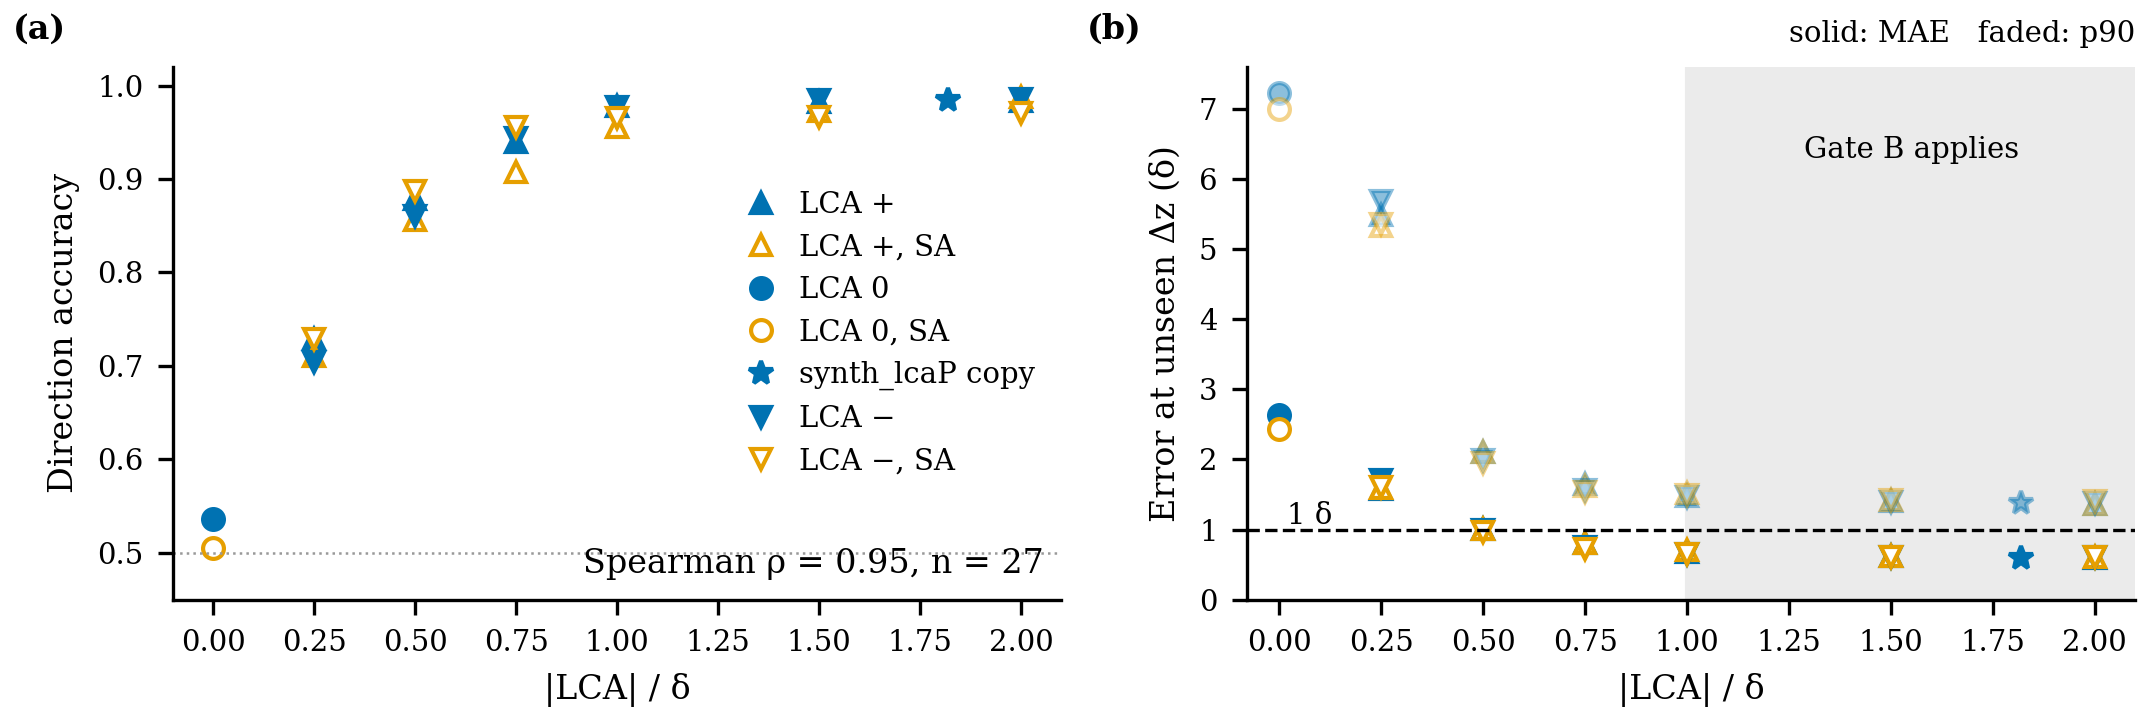
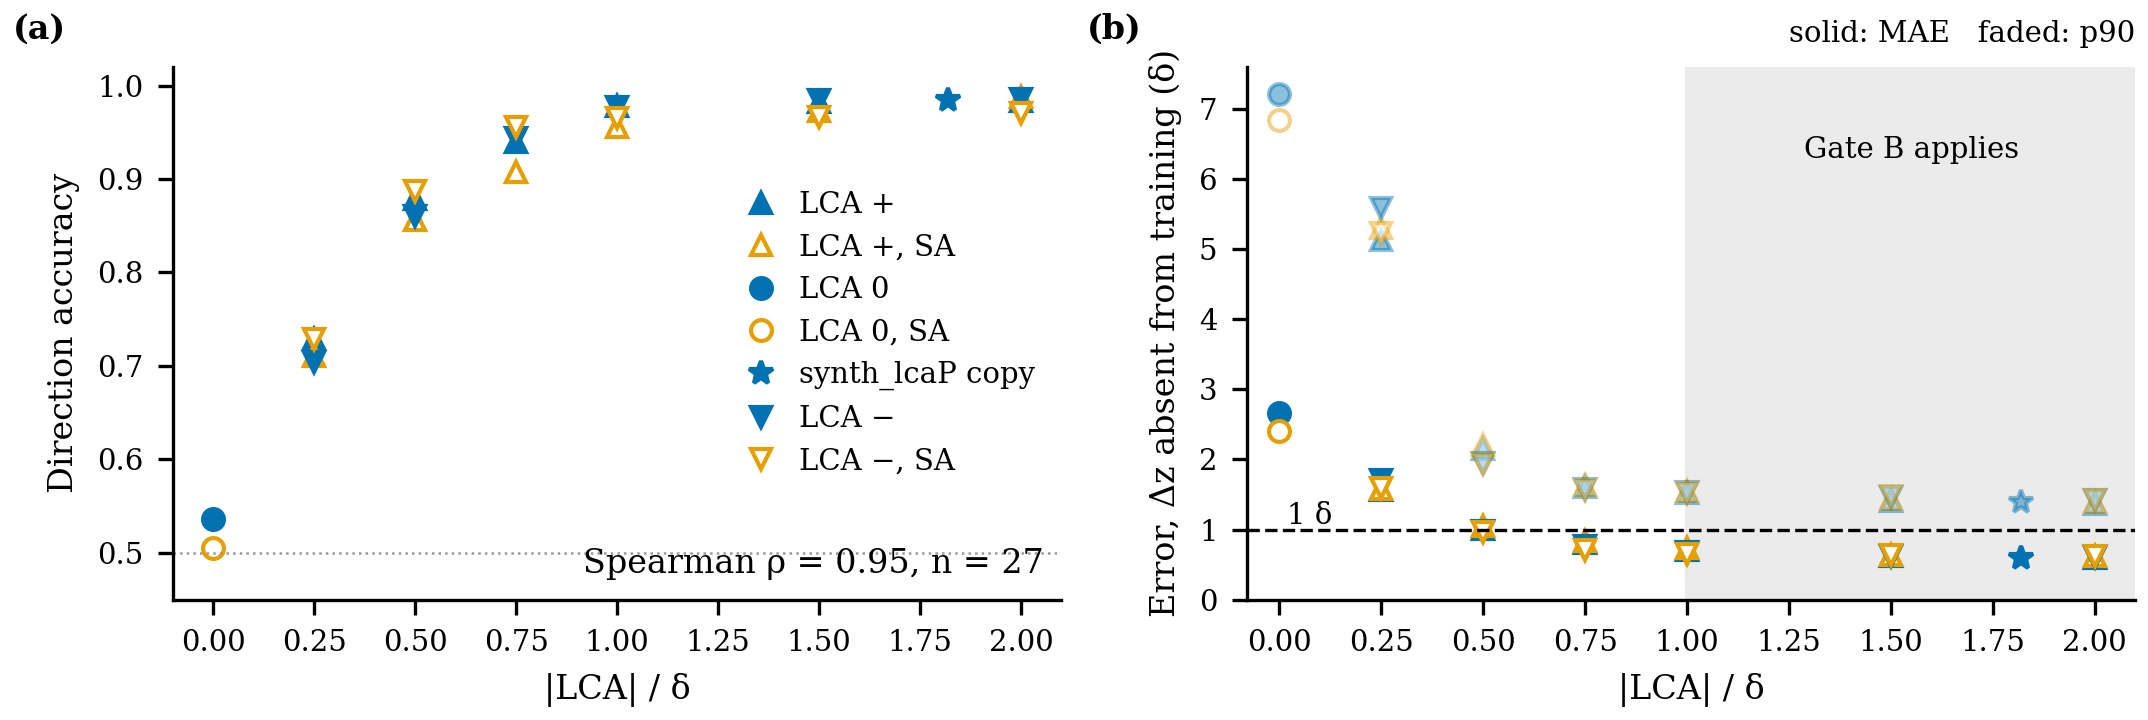
Gate B and Fig. 1(b) on displacements absent from training (945 frames per design)

diff --git a/paper/ojvt/main.tex b/paper/ojvt/main.tex
@@ -18,7 +18,7 @@
 Fixed-focus automotive cameras drift out of focus in service, and an unsigned sharpness drop cannot tell the direction of the drift.
 We test whether the residual longitudinal chromatic aberration (LCA) of the lens makes the sign of a focus shift measurable from ordinary images, leaving its size to a standard sharpness measure.
 On \MthreeNlenses{} rendered lens designs, frame direction accuracy rises with the ratio of LCA to depth of focus $\delta$ (Spearman $\rho=\MthreeRho$).
-For the \MthreeGateBN{} designs with LCA above $1\,\delta$, the mean error at continuous displacements, on scenes held out from calibration, is \MthreeGateBMaeMin--\MthreeGateBMaeMax\,$\delta$.
+For the \MthreeGateBN{} designs with LCA above $1\,\delta$, the mean error at continuous displacements absent from training, on scenes held out from calibration, is \MthreeGateBMaeMin--\MthreeGateBMaeMax\,$\delta$.
 A Laplacian sharpness measure alone estimates the size of the shift more accurately (\RefLapAbsMin--\RefLapAbsMax\,$\delta$ error), so the chromatic cue's contribution is the sign.
 On the held-out half of a real through-focus sweep of a lens with LCA \LabLcaDelta\,$\delta$, direction is correct on \LabTestCalOk{} of \LabTestCalN{} frames once the channel order and a threshold are known, and at chance from rendered calibration alone.
 Field curvature, motion blur, fog and white-balance error each degrade the cue; we report where.
@@ -75,14 +75,14 @@ Rendered frames start from raw Bayer plates of the Oxford RobotCar dataset \cite
 The laboratory sweep uses a VS Technology VS-0618H1 lens (6\,mm, C-mount) at about f/2 on a FLIR Blackfly S BFS-U3-89S6C colour camera, 80 equal servo steps over a 90$^\circ$ focus-ring rotation, with an ISO~12233 eSFR chart at about 30\,cm. The slanted-edge MTF was measured on the raw Bayer planes \cite{deegan2024demosaic}.
 An exact defocus-OTF fit to the per-channel through-focus MTF gives \LabStepUm\,\textmu m per step at f/2, that is \LabDeltaPerStep\,$\delta$ per step whatever the f-number, and a red--blue LCA of \LabLcaDelta\,$\delta$ (Fig.~\ref{fig:lab}).
 The lab sweep is split into calibration (every fourth step, left chart half) and test (the rest); the test split is evaluated once, after the method is frozen.
-Two decision rules were fixed before any experiment. Gate~A requires direction accuracy to rise with LCA/$\delta$ across the lens population, as a rank trend (Spearman $\rho>0$, one-sided $p<0.05$). Gate~B requires the mean absolute displacement error at unseen displacements to be below $1\,\delta$ for lenses with LCA above $1\,\delta$. Failing Gate~A would falsify the central claim. Failing Gate~B would limit the claim to direction.
+Two decision rules were fixed before any experiment. Gate~A requires direction accuracy to rise with LCA/$\delta$ across the lens population, as a rank trend (Spearman $\rho>0$, one-sided $p<0.05$). Gate~B requires the mean absolute displacement error at displacements absent from training to be below $1\,\delta$ for lenses with LCA above $1\,\delta$. Failing Gate~A would falsify the central claim. Failing Gate~B would limit the claim to direction.
 
 \section{Results}
 \subsection{Direction accuracy against LCA (RQ1)}
 Each of the \MthreeNlenses{} designs is rendered on \MthreeNframes{} frames (every RobotCar plate at eight continuous displacements). Direction accuracy rises with LCA/$\delta$ (Spearman $\rho=\MthreeRho$, Kendall $\tau=\MthreeTau$; Fig.~\ref{fig:m3}), so Gate~A passes. With no LCA it is at chance (\MthreeZeroDir{} without and \MthreeZeroSaDir{} with spherical aberration), and at $0.25\,\delta$ it is \MthreeQuarterDirMin--\MthreeQuarterDirMax.
 
 \subsection{Signed displacement (RQ2)}
-Test displacements are continuous and test scenes are held out. For the \MthreeGateBN{} designs with LCA above $1\,\delta$, MAE is \MthreeGateBMaeMin--\MthreeGateBMaeMax\,$\delta$, so Gate~B passes; at $0.25\,\delta$ it is \MthreeQuarterMaeMin--\MthreeQuarterMaeMax\,$\delta$. For the design with LCA $1.8\,\delta$ (Fig.~\ref{fig:m2}), MAE is \MtwoMaeDelta\,$\delta$ (\MtwoMaeUm\,\textmu m) and p90 \MtwoPninetyDelta\,$\delta$, and direction accuracy is \MtwoDirAll{} overall and \MtwoDirNear{} within $0.5\,\delta$ of focus. On a \MtwoSubsetN-frame subset, training on the nine-level ladder instead of continuous displacements gives the same error (\MtwoSubsetLadderMaeDelta{} against \MtwoSubsetMaeDelta\,$\delta$).
+Test displacements are continuous and test scenes are held out. Because each frame's displacement is drawn independently, a test displacement rounded to 0.1\,\textmu m can also occur in another fold's training frames; Gate~B is therefore scored on the \MthreeUnseenN{} of \MthreeNframes{} test frames per design whose rounded displacement occurs in no training fold. For the \MthreeGateBN{} designs with LCA above $1\,\delta$, MAE on these frames is \MthreeGateBMaeMin--\MthreeGateBMaeMax\,$\delta$, so Gate~B passes; on all test frames it is \MthreeGateBMaeAllMin--\MthreeGateBMaeAllMax\,$\delta$, and over all \MthreeNlenses{} designs the two differ by at most \MthreeUnseenMaxDiff\,$\delta$. At $0.25\,\delta$ the MAE on displacements absent from training is \MthreeQuarterMaeMin--\MthreeQuarterMaeMax\,$\delta$. The remaining figures in this subsection use all test frames. For the design with LCA $1.8\,\delta$ (Fig.~\ref{fig:m2}), MAE is \MtwoMaeDelta\,$\delta$ (\MtwoMaeUm\,\textmu m) and p90 \MtwoPninetyDelta\,$\delta$, and direction accuracy is \MtwoDirAll{} overall and \MtwoDirNear{} within $0.5\,\delta$ of focus. On a \MtwoSubsetN-frame subset, training on the nine-level ladder instead of continuous displacements gives the same error (\MtwoSubsetLadderMaeDelta{} against \MtwoSubsetMaeDelta\,$\delta$).
 
 \subsection{Reference rows}
 On the same frames and folds, two unsigned sharpness floors (green-channel Tenengrad and finest Laplacian-pyramid energy, each a one-dimensional curve against $|\Delta z|$) and a learned regressor (gradient boosting on all 69 patch features, the earlier study's settings) are scored; Table~\ref{tab:ref}.
@@ -114,7 +114,7 @@ All numbers in this paper are generated from the committed result tables by \tex
 \note{One paragraph after the lab test split.}
 
 \begin{figure*}[t]\centering\includegraphics[width=\textwidth]{fig1_m3_dose_response.pdf}
-\caption{M3, \MthreeNlenses{} rendered lenses. (a) Direction accuracy against $|\mathrm{LCA}|/\delta$. (b) MAE and p90 at unseen continuous displacements; Gate B applies in the shaded region.}\label{fig:m3}\end{figure*}
+\caption{M3, \MthreeNlenses{} rendered lenses. (a) Direction accuracy against $|\mathrm{LCA}|/\delta$. (b) MAE and p90 on the \MthreeUnseenN{} test frames per design whose continuous displacement is absent from training; Gate B applies in the shaded region.}\label{fig:m3}\end{figure*}
 \begin{figure*}[t]\centering\includegraphics[width=\textwidth]{fig2_lab_through_focus.pdf}
 \caption{Lab sweep, calibration steps only: raw-Bayer SFR per channel with the exact defocus-OTF fit.}\label{fig:lab}\end{figure*}
 \begin{figure*}[t]\centering\includegraphics[width=\textwidth]{fig3_m2_continuous.pdf}

diff --git a/src/figures.py b/src/figures.py
@@ -68,8 +68,8 @@ def fig1_m3(out):
         kw = dict(marker=mk[sg], ls="none", ms=6 if sg == "ref" else 5, color=OK["orange"] if sa else OK["blue"],
                   mfc="white" if sa else None, label=f"LCA {sg}{', SA' if sa else ''}" if sg != "ref" else "synth_lcaP copy")
         a.plot(g.lca_over_delta, g.dir_acc, **kw)
-        b.plot(g.lca_over_delta, g.mae_delta, **kw)
-        b.plot(g.lca_over_delta, g.p90_delta, **{**kw, "alpha": 0.45, "label": None})
+        b.plot(g.lca_over_delta, g.mae_delta_unseen, **kw)
+        b.plot(g.lca_over_delta, g.p90_delta_unseen, **{**kw, "alpha": 0.45, "label": None})
     a.axhline(0.5, color="0.6", lw=0.6, ls=":")
     a.set(xlabel="|LCA| / δ", ylabel="Direction accuracy", ylim=(0.45, 1.02))
     a.text(0.98, 0.05, f"Spearman ρ = {ga.spearman_rho:.2f}, n = {int(ga.n_lenses)}", transform=a.transAxes, ha="right")
@@ -77,7 +77,7 @@ def fig1_m3(out):
     b.axvspan(1.0, 2.1, color="0.92", zorder=0)
     b.text(1.55, 6.3, "Gate B applies", ha="center", fontsize=7)
     b.text(0.02, 1.08, "1 δ", fontsize=7)
-    b.set(xlabel="|LCA| / δ", ylabel="Error at unseen Δz (δ)", xlim=(-0.08, 2.1), ylim=(0, 7.6))
+    b.set(xlabel="|LCA| / δ", ylabel="Error, Δz absent from training (δ)", xlim=(-0.08, 2.1), ylim=(0, 7.6))
     b.set_title("solid: MAE   faded: p90", loc="right", fontsize=7)
     a.legend(loc="center right", ncol=1, handletextpad=0.3)
     tag(a, "(a)"); tag(b, "(b)")

diff --git a/src/paper_numbers.py b/src/paper_numbers.py
@@ -24,12 +24,15 @@ def numbers():
     n["MthreeTau"] = f(ga.kendall_tau)
     gb = p2[p2.gate_b_applies.astype(str) == "True"]
     n["MthreeGateBN"] = len(gb)
-    n["MthreeGateBMaeMin"], n["MthreeGateBMaeMax"] = f(gb.mae_delta.min()), f(gb.mae_delta.max())
+    n["MthreeGateBMaeMin"], n["MthreeGateBMaeMax"] = f(gb.mae_delta_unseen.min()), f(gb.mae_delta_unseen.max())
+    n["MthreeGateBMaeAllMin"], n["MthreeGateBMaeAllMax"] = f(gb.mae_delta.min()), f(gb.mae_delta.max())
+    n["MthreeUnseenN"] = int(p2.n_unseen.min()) if p2.n_unseen.nunique() == 1 else "MIXED"
+    n["MthreeUnseenMaxDiff"] = f((p2.mae_delta_unseen - p2.mae_delta).abs().max())
     z = p2.set_index("lens")
     n["MthreeZeroDir"], n["MthreeZeroSaDir"] = f(z.loc["m3_z000", "dir_acc"]), f(z.loc["m3_z000_sa", "dir_acc"])
     q = p2[p2.lca_over_delta == 0.25]
     n["MthreeQuarterDirMin"], n["MthreeQuarterDirMax"] = f(q.dir_acc.min()), f(q.dir_acc.max())
-    n["MthreeQuarterMaeMin"], n["MthreeQuarterMaeMax"] = f(q.mae_delta.min()), f(q.mae_delta.max())
+    n["MthreeQuarterMaeMin"], n["MthreeQuarterMaeMax"] = f(q.mae_delta_unseen.min()), f(q.mae_delta_unseen.max())
     ref = R / "phase2/lenses/m3_ref"
     e = pd.read_csv(ref / "m2_displacement.csv")
     c = e[(e.train == "continuous") & (e.band == "all")].iloc[0]

diff --git a/paper/numbers.tex b/paper/numbers.tex
@@ -58,17 +58,21 @@
 \newcommand{\MsixMaeMax}{0.52}
 \newcommand{\MsixMaeNominal}{0.39}
 \newcommand{\MsixShiftBiasMax}{0.11}
-\newcommand{\MthreeGateBMaeMax}{0.63}
+\newcommand{\MthreeGateBMaeAllMax}{0.63}
+\newcommand{\MthreeGateBMaeAllMin}{0.59}
+\newcommand{\MthreeGateBMaeMax}{0.64}
 \newcommand{\MthreeGateBMaeMin}{0.59}
 \newcommand{\MthreeGateBN}{9}
 \newcommand{\MthreeNframes}{1960}
 \newcommand{\MthreeNlenses}{27}
 \newcommand{\MthreeQuarterDirMax}{0.73}
 \newcommand{\MthreeQuarterDirMin}{0.70}
-\newcommand{\MthreeQuarterMaeMax}{1.71}
-\newcommand{\MthreeQuarterMaeMin}{1.58}
+\newcommand{\MthreeQuarterMaeMax}{1.70}
+\newcommand{\MthreeQuarterMaeMin}{1.56}
 \newcommand{\MthreeRho}{0.95}
 \newcommand{\MthreeTau}{0.87}
+\newcommand{\MthreeUnseenMaxDiff}{0.04}
+\newcommand{\MthreeUnseenN}{945}
 \newcommand{\MthreeZeroDir}{0.54}
 \newcommand{\MthreeZeroSaDir}{0.51}
 \newcommand{\MtwoDirAll}{0.98}

diff --git a/results/figures/FIGURES.md b/results/figures/FIGURES.md
@@ -4,7 +4,7 @@ Regenerate with `python src/figures.py --out results/figures` (needs `matplotlib
 
 | File | Source CSVs | Caption draft |
 |---|---|---|
-| `fig1_m3_dose_response` | `phase2/phase2_summary.csv`, `phase2_gate_a.csv` | M3 designs on the full Phase 2 render, 27 lenses (f/2, 5.5 µm, δ = 22 µm), 1,960 frames each at continuous displacements. (a) Direction accuracy against \|LCA\|/δ; triangles give the LCA sign, open orange markers add spherical aberration (SA), the star is the synth_lcaP copy. (b) MAE (solid) and p90 (faded) at displacements absent from training; Gate B applies in the shaded region and requires MAE < 1 δ. |
+| `fig1_m3_dose_response` | `phase2/phase2_summary.csv`, `phase2_gate_a.csv` | M3 designs on the full Phase 2 render, 27 lenses (f/2, 5.5 µm, δ = 22 µm), 1,960 frames each at continuous displacements. (a) Direction accuracy against \|LCA\|/δ; triangles give the LCA sign, open orange markers add spherical aberration (SA), the star is the synth_lcaP copy. (b) MAE (solid) and p90 (faded) on the 945 test frames per lens whose rounded displacement occurs in no training fold (`mae_delta_unseen`, `p90_delta_unseen`); Gate B applies in the shaded region and requires MAE < 1 δ. |
 | `fig2_lab_through_focus` | `lab_sweep/mtf_fit_calibration.csv`, `step_size_fits.csv` | Lab sweep, VS-0618H1 at about f/2, centre square, calibration steps only (every fourth step). Raw-Bayer SFR per channel at 0.125 and 0.25 cy/px, with the joint exact-defocus OTF fit (one step size, per-channel focus). Dotted lines are each channel's fitted focus; the top axis converts steps to δ about green focus. |
 | `fig3_m2_continuous` | `phase2/lenses/m3_ref/m2_displacement_frames.csv`, `m2_direction.csv` | synth_lcaP copy (LCA 1.8 δ), Phase 2 render, 1,960 held-out frames at continuous displacements (traversal-disjoint folds). (a) Predicted against true Δz; predictions saturate at the training range (±4.5 δ). (b) Direction accuracy per \|Δz\| band. |
 | `fig4_m7_field` | `m7_field/m7_summary.csv`, `lab_squares_focus.csv` | M7. (a) Rendered Sony map: direction accuracy per field zone for a uniform centre PSF, for the field-varying PSF scored against nominal focus, and for the same scored against each zone's own focus. Nominal DZ units. (b) Lab chart squares: red − blue focus (δ) against field radius at the two SFR frequencies; exploratory. |
